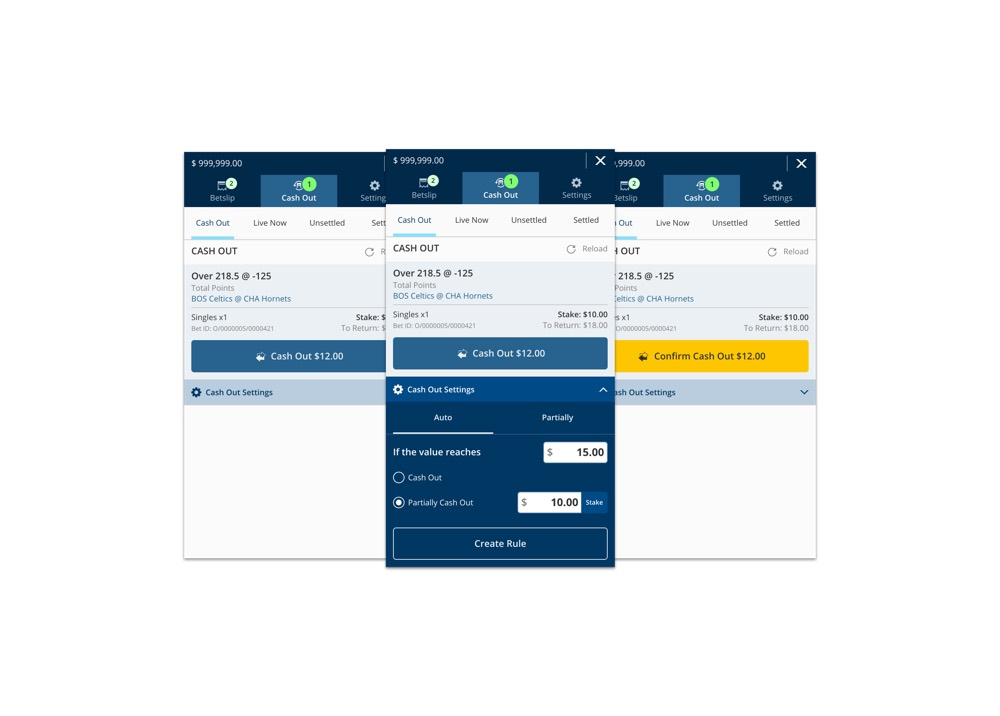
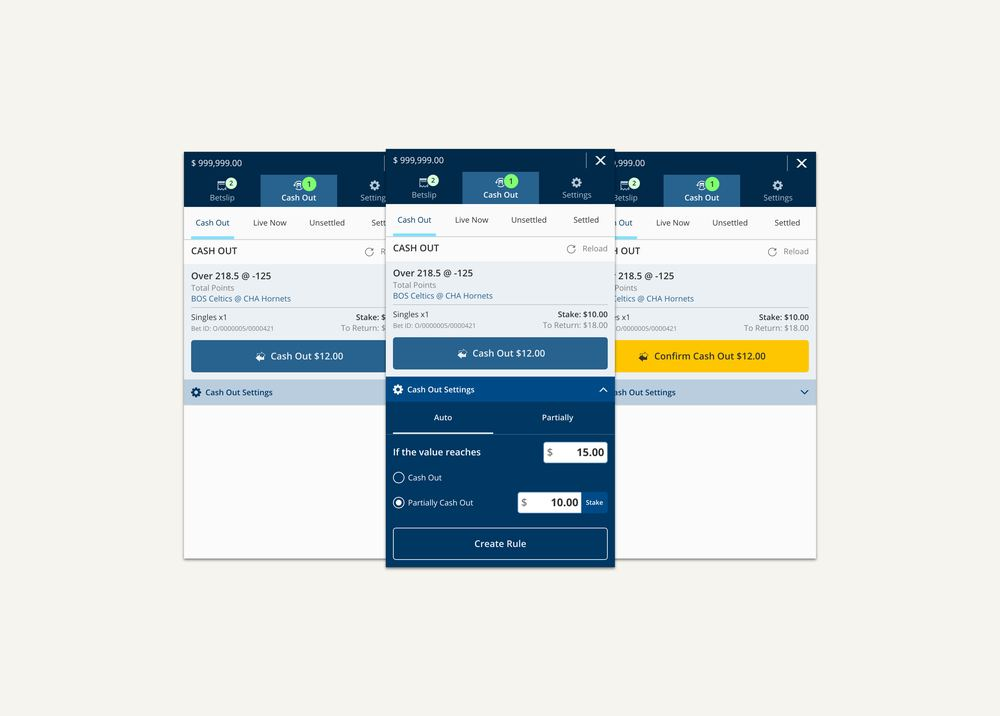
Screenshot retouch to pearl + SEO/OG assets + production build
- betslip/cashout/search alpha-composited over pearl #F6F4EF (their
  PNGs had transparent grounds) — all four work shots now sit in the
  palette, no more raw white
- OG image (1200x630): obsidian ground, champagne headline, roulette
  ring echo, credentials strip; app icon: AP monogram on obsidian
  (Next file conventions: app/opengraph-image.png, app/icon.png)
- metadataBase pokacity.com + OpenGraph/Twitter cards + robots
- npm run build passes: fully static prerender (/, icon, og-image)

Deploy: no Vercel CLI/auth on this machine — site is ready for
'vercel' from /site or a GitHub->Vercel import (docs in summary).

diff --git a/site/app/layout.tsx b/site/app/layout.tsx
@@ -13,9 +13,29 @@ const jbMono = JetBrains_Mono({
 });
 
 export const metadata: Metadata = {
+  metadataBase: new URL("https://pokacity.com"),
   title: "Artur Prolisko — Senior Product Design Leader · iGaming & Sportsbook",
   description:
     "14+ years turning platform complexity into effortless products for Tier 1 iGaming operators. Head of Product at Fitzdares, building from Gibraltar.",
+  keywords: [
+    "product design leader", "iGaming", "sportsbook", "casino", "live casino",
+    "Head of Product", "UX strategy", "design systems", "Fitzdares", "Gibraltar",
+  ],
+  openGraph: {
+    type: "website",
+    url: "https://pokacity.com",
+    siteName: "Artur Prolisko",
+    title: "Artur Prolisko — Senior Product Design Leader · iGaming & Sportsbook",
+    description:
+      "14+ years at Tier 1 operators: 250% ROI, three market launches, and a platform stood up in Gibraltar.",
+  },
+  twitter: {
+    card: "summary_large_image",
+    title: "Artur Prolisko — Senior Product Design Leader · iGaming & Sportsbook",
+    description:
+      "14+ years at Tier 1 operators: 250% ROI, three market launches, and a platform stood up in Gibraltar.",
+  },
+  robots: { index: true, follow: true },
 };
 
 export const viewport: Viewport = {